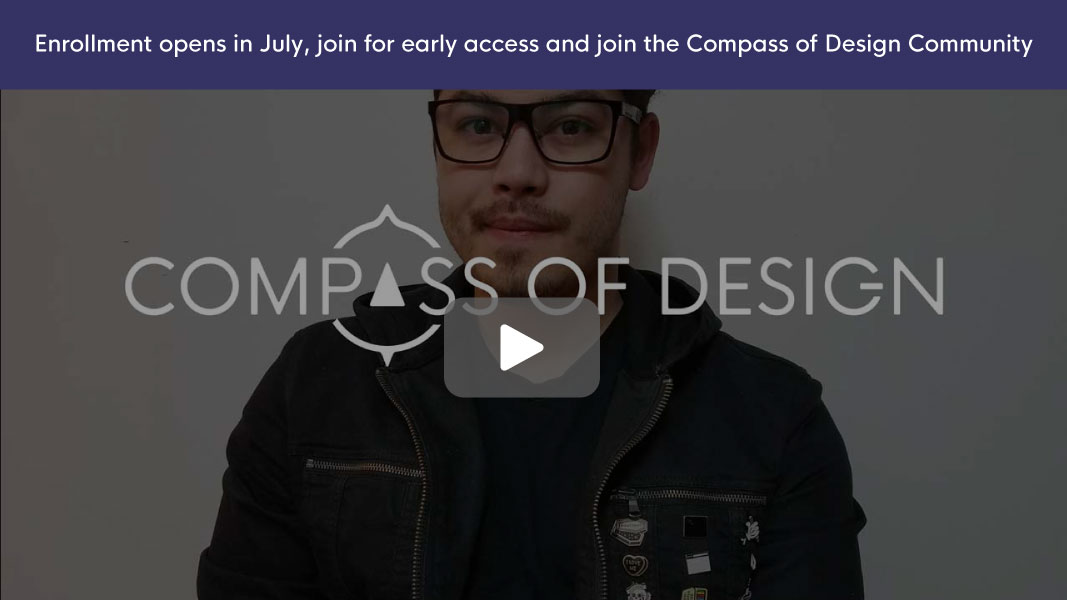
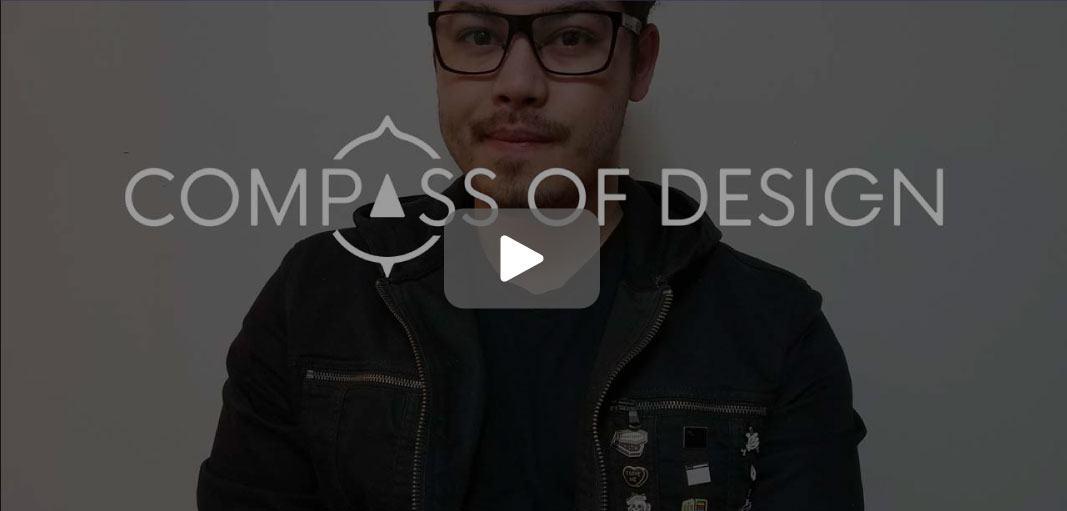
added more assets to the mix with some more styling and editing on copy

diff --git a/join/index.html b/join/index.html
@@ -15,8 +15,8 @@ title: Compass Of Design - Learn to design with confidence, a site for new desig
   <article class="row">
     <div class="landing module">
       <h2>The Compass of Design</h2>
+      <div class="alert"><p><em>Enrollment opens in July, <a href="#signup">get early access to the community</a></em></p></div>
       <a href="#signup"><img src="/assets/img/test.jpg" alt="start of the Compass of Design course." /></a>
-      <p><em>Enrollment opens in July, <a href="#signup">get early access to the community</a></em></p>
       <p>Having to act quickly to make design decisions is a difficult thing to do. The precision these masters of design have when creating their work can make you feel like reaching that level is impossible.</p>
       <p>And hey, maybe right now what you know is not good enough.
       You can feel less vulnerable by taking small steps towards becoming a better designer.</p>
@@ -26,21 +26,32 @@ title: Compass Of Design - Learn to design with confidence, a site for new desig
     <div class="module landing">
       <h2>Every pioneer needs their own tool to figure out where to go.That tool for you is the is the Compass of Design</h2>
       <h3>This tool helps you find your path to freedom by</h3>
-      <article class="module">
-        <div class=""><h4>Helping you make faster design decisions
-</h4></div>
+      <article class="module support-img">
+        <img src="/assets/img/landing/decision.svg" alt="Making faster design decisions"/>
+      </article>
+      <article class="module point">
+        <div class=""><h3>Helping you make faster design decisions</h3></div>
         <p>Here is the supporting example of why signing up helps you learn this skill. It's important to use this time to sell the sign up with hitting pain points really hard here. </p>
       </article>
-      <article class="module">
-        <h4>Laying down the foundation with proven design principles</h4>
+      <article class="module support-img">
+        <img src="/assets/img/landing/principle.svg" alt="Solid foundation in design priniciples"/>
+      </article>
+      <article class="module point">
+        <h3>Laying down the foundation with proven design principles</h3>
         <p>Here is the supporting example of why signing up helps you learn this skill. It's important to use this time to sell the sign up with hitting pain points really hard here. </p>
       </article>
-      <article class="module">
-        <h4>Leaving imposter syndrome behind</h4>
+      <article class="module support-img">
+        <img src="/assets/img/landing/imposter.svg" alt="defeat imposter syndrome by getting rid of anxiety"/>
+      </article>
+      <article class="module point">
+        <h3>Leaving imposter syndrome behind</h3>
         <p>Here is the supporting example of why signing up helps you learn this skill. It's important to use this time to sell the sign up with hitting pain points really hard here. </p>
       </article>
-      <article class="module">
-        <h4>Teaching you to present your design decisions with confidence</h4>
+      <article class="module support-img">
+        <img src="/assets/img/landing/present.svg" alt="Present your design with confidence.">
+      </article>
+      <article class="module point">
+        <h3>Teaching you to present your design decisions with confidence</h3>
         <p>Here is the supporting example of why signing up helps you learn this skill. It's important to use this time to sell the sign up with hitting pain points really hard here. </p>
       </article>
     </div>
@@ -48,8 +59,19 @@ title: Compass Of Design - Learn to design with confidence, a site for new desig
 </section>
 <section class="main container">
   <article class="row">
-    <h2>Enrollment opens in July of 2017</h2>
+    <div class="landing module">
+      <h2>Enrollment opens in July of 2017</h2>
       {%include mailchimp.html%}
-
+    </div>
   </article>
 </section>
+<footer class="main container">
+  <article class="row">
+    <div class="landing module">
+      <p>The Compass of Design is an ever-expanding project by <a href="https://twitter.com/d_evyn">Darian Rosebrook</a> and <a href="https://twitter.com/itssomagnetic">So Magnetic</a>. Together, they fuel the project with the hopes of helping those who struggle with getting started in design. It can be difficult to figure out where to go, and for anyone who’s lost we want to help be that compass.</p>
+    </div>
+    <div class="landing module">
+      <h6>Copyright 2017 by <a href="https://somagnetic.com">So Magnetic LLC</a></h6>
+    </div>
+  </article>
+</footer>

diff --git a/css/master.css b/css/master.css
@@ -162,7 +162,8 @@ td, th {
 *, *::before, *::after {
   box-sizing: border-box;
   margin: 0;
-  padding: 0; }
+  padding: 0;
+  transition: all ease 0.3s; }
 
 html {
   background: #fff;
@@ -325,6 +326,16 @@ i {
   transform: translate(-50%, 0);
   left: 50%; }
 
+.alert {
+  padding: 2em 0 0.5em;
+  background-color: #353263;
+  color: #fff;
+  text-align: center; }
+  .alert ~ a img:hover {
+    opacity: 0.4; }
+  .alert a {
+    color: #9a97ca; }
+
 .container {
   font-size: 0;
   position: relative; }
@@ -379,6 +390,8 @@ i {
   position: inherit;
   font-size: 1.8rem;
   padding: 0 0 1.5rem 0; }
+  .module img {
+    width: 100%; }
   @media only screen and (min-width: 800px) {
     .module ~ .module {
       padding-bottom: 0; } }
@@ -395,15 +408,8 @@ i {
       transform: translate(-50%, 0);
       left: 50%;
       width: 70%; } }
-.pull {
-  margin-top: 5%;
-  padding-top: 4em;
-  background: #fafafa;
-  border-radius: 10px;
-  width: 50%;
-  position: relative;
-  transform: translate(-50%, 0);
-  left: 50%; }
+.point {
+  margin-top: -28%; }
 
 form#mc-embedded-subscribe-form input {
   display: block;
@@ -464,6 +470,13 @@ form#mc-embedded-subscribe-form input {
   .hero img {
     width: 35%; }
 
-  margin: 0 0 0 2rem; }
+  .button ~ .button, a.button ~ a.button {
+    margin: 0 0 0 2rem; }
+
+  .module .support-img {
+    width: 50%;
+    position: relative;
+    transform: translate(-50%, 0);
+    left: 50%; } }
 
 /*# sourceMappingURL=master.css.map */

diff --git a/css/2-base/_base.sass b/css/2-base/_base.sass
@@ -3,6 +3,7 @@
   box-sizing: border-box
   margin: 0
   padding: 0
+  transition: $transition
 html
   background: $light
   font-family: "Trebuchet MS", sans-serif
@@ -140,8 +141,15 @@ i
   background-repeat: no-repeat
 .focus
   @include center(true, false)
-
-
+.alert
+  padding: 2em 0 .5em
+  background-color: $main
+  color: $light
+  text-align: center
+  & ~ a img:hover
+    opacity: .4
+  a
+    color: lighten($main, 40%)
 // Columns
 .container
   @include container()
@@ -176,6 +184,8 @@ i
   position: inherit
   font-size: 1.8rem
   padding: 0 0 1.5rem 0
+  img
+    width: 100%
   @media only screen and (min-width: 800px)
     & ~ .module
       padding-bottom: 0
@@ -190,13 +200,8 @@ i
     &.landing
       @include center(true, false)
       width: 70%
-.pull
-  margin-top: 5%
-  padding-top: 4em
-  background: #fafafa
-  border-radius: 10px
-  width: 50%
-  @include center(true, false)
+.point
+  margin-top: -28%
 
 // Forms
 form#mc-embedded-subscribe-form

diff --git a/almost/index.html b/almost/index.html
@@ -2,5 +2,4 @@
 layout: default
 title: Almost there! One more step
 ---
-<h1>almost</h1>
-<iframe src="https://player.vimeo.com/video/212543080?autoplay=1&color=eeeeee&byline=0&portrait=0" width="640" height="360" frameborder="0" webkitallowfullscreen mozallowfullscreen allowfullscreen></iframe>
+<iframe src="https://player.vimeo.com/video/214344008?autoplay=1&color=eee&title=0&byline=0&portrait=0" width="640" height="360" frameborder="0" webkitallowfullscreen mozallowfullscreen allowfullscreen></iframe>

diff --git a/thanks/index.html b/thanks/index.html
@@ -2,4 +2,4 @@
 layout: default
 title: Thanks for Subscribing
 ---
-<iframe src="https://player.vimeo.com/video/212543213?autoplay=1&color=eee&byline=0&portrait=0" width="640" height="360" frameborder="0" webkitallowfullscreen mozallowfullscreen allowfullscreen></iframe>
+<iframe src="https://player.vimeo.com/video/214344036?autoplay=1&color=ffffff&title=0&byline=0&portrait=0" width="640" height="360" frameborder="0" webkitallowfullscreen mozallowfullscreen allowfullscreen></iframe>

diff --git a/css/4-exceptions/_media.sass b/css/4-exceptions/_media.sass
@@ -30,4 +30,9 @@
     img
       width: 35%
   .button ~ .button,a.button ~ a.button
-  margin: 0 0 0 2rem
+    margin: 0 0 0 2rem
+  .landing
+  .module
+    .support-img
+      width: 50%
+      @include center(true, false)
